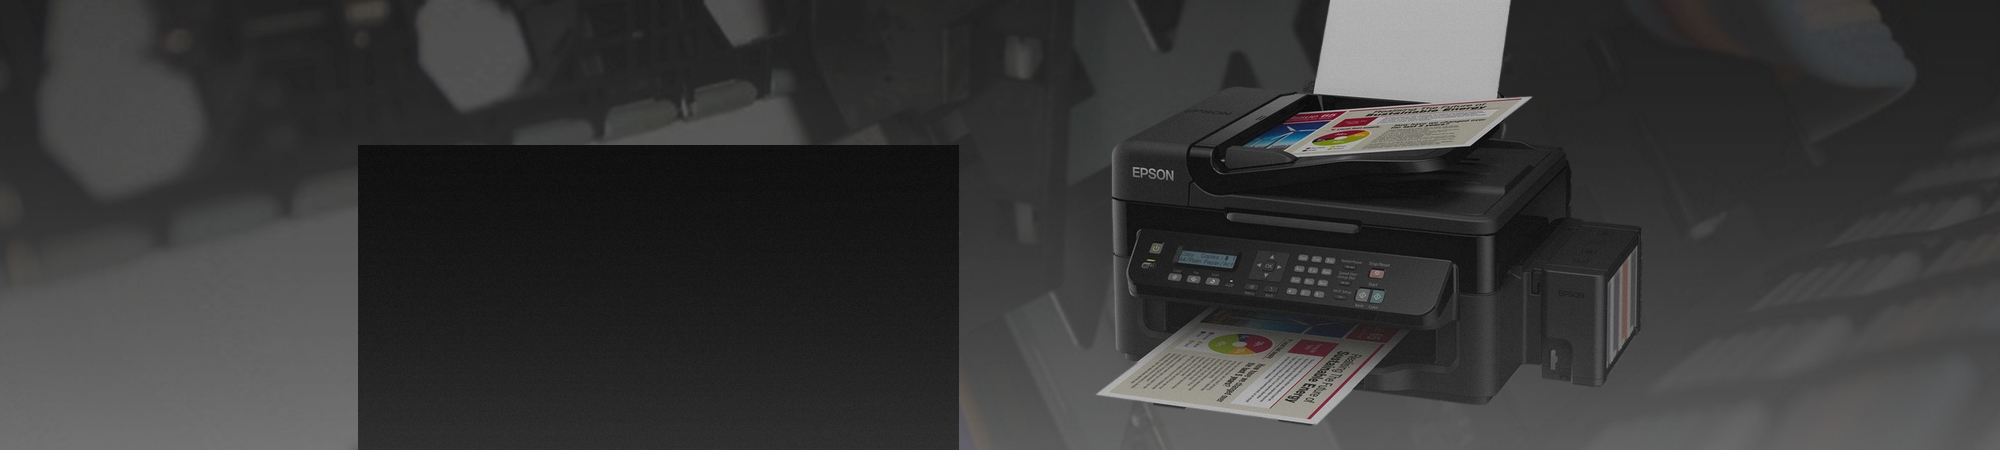
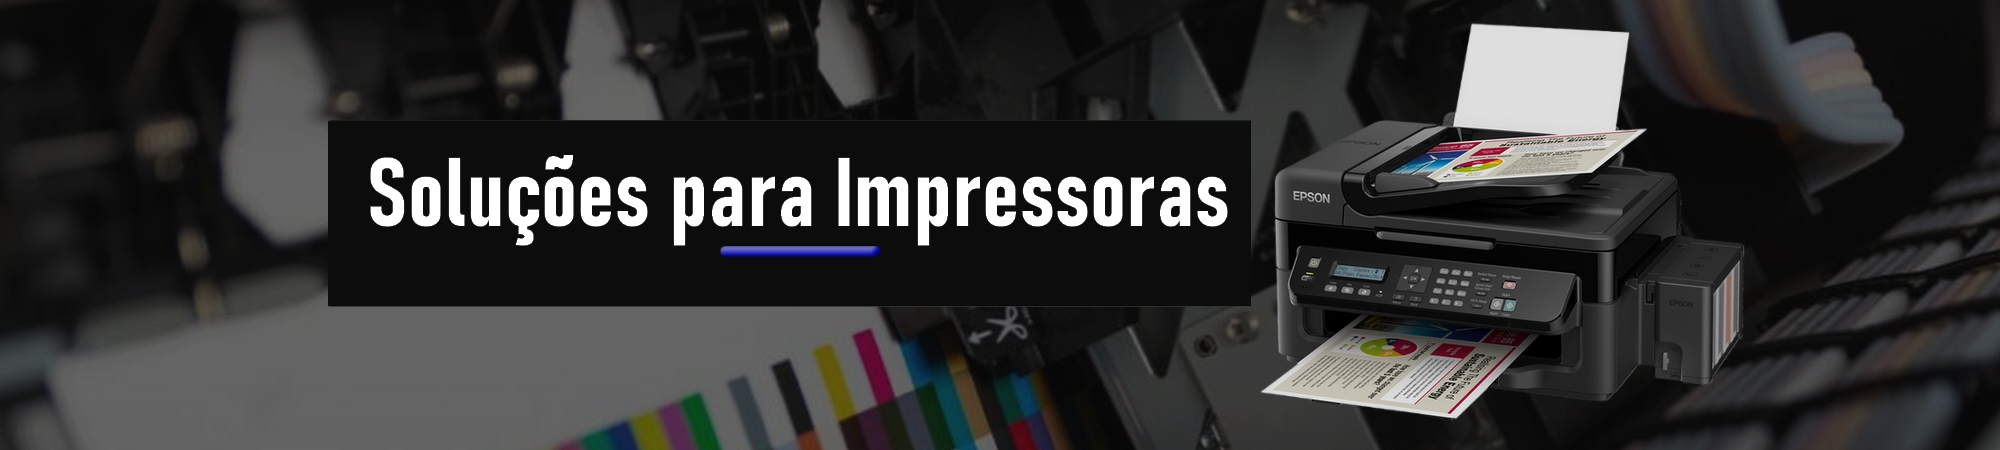
New update

diff --git a/impressoras.html b/impressoras.html
@@ -21,61 +21,189 @@
 
     <!-- Custom CSS-->
     <link rel="stylesheet" href="css/global.css"/>
-    <link rel="stylesheet" href="css/mouse-animate-icon.css"/>
     <link rel="stylesheet" href="css/pulse-button.css"/>
 
     <title>Rhaiters Computer</title>
 </head>
 
-<body>
-    <nav id="navbarTop" class="navbar navbar-lg navbar-dark fixed-top navbar-expand-lg"
-        style="background-color: rgba(1, 1, 1, 0.1)">
-        <div class="container px-1">
-            <a class="navbar-brand mr-0" href="#" style="margin-right: 0px;">
-                <img src="assets/images/icon_logo.png" width="32" height="32" alt="">
-                <img src="assets/images/company_name.png" width="150" height="32" alt="">
-            </a>
-            <button id="navbarToggle" class="navbar-toggler text-white" type="button" data-bs-toggle="collapse"
-                data-bs-target="#menuNavbar" aria-controls="menuNavbar" aria-expanded="false"
-                aria-label="Toggle navigation">
-                <span class="navbar-toggler-icon">   
-                    <i class="fas fa-bars" style="color:#fff; font-size:28px;"></i>
-                </span>
-            </button>
-            <div id="menuNavbar" class="collapse navbar-collapse justify-content-end">
-                <span></span>
-                <ul class="navbar-nav mb-2 mb-lg-0 navbar-nav-scroll text-end">
-                    <hr class="my-0 text-white">
-                    <li class="nav-item">
-                        <a class="nav-link active" aria-current="page" href="#">Home</a>
-                    </li>
-                    <hr class="my-0 text-white">
-                    <li class="nav-item">
-                        <a class="nav-link" href="#sessaoServicos">Serviços</a>
-                    </li>
-                    <hr class="my-0 text-white">
-                    <li class="nav-item">
-                        <a class="nav-link" href="#sessaoOpinioes">Opiniões</a>
-                    </li>
-                    <hr class="my-0 text-white">
-                    <li class="nav-item">
-                        <a class="nav-link" href="#sessaoContato">Contato</a>
-                    </li>
-                    <hr class="my-0 text-white">
-                    <li class="nav-item">
-                        <a class="nav-link" href="#rodape">Sobre a Empresa</a>
-                    </li>
-                    <hr class="my-0 text-white">
-                </ul>
+<body class="pt-5">
+    <nav class="navbar navbar-lg navbar-dark fixed-top navbar-expand-lg"
+        style="background-color: black">
+        <div class="container px-5">
+            <div class="col-md-4 d-flex justify-content-start"> 
             </div>
+            <div class="col-md-4 d-flex justify-content-center">
+                <a class="navbar-brand mr-0 " href="/" style="margin-right: 0px;">
+                    <img src="assets/images/icon_logo.png" width="32" height="32" alt="">
+                    <img src="assets/images/company_name.png" width="150" height="32" alt="">
+                </a>
+            </div>
+            <div class="col-md-4"></div>
         </div>
     </nav>
 
     <header class="bg-dark">
         <div class="d-flex flex-column align-items-center justify-content-center">
-            <img class="img-fluid d-none d-lg-block" src="assets/images/impressoras/header-impressoras.jpg" width="100%">
+            <img class="img-fluid d-none d-lg-block" src="assets/images/impressoras/header-impressoras-v2.jpg" width="100%">
+            <img class="img-fluid d-block d-sm-none d-md-none d-lg-none" src="assets/images/impressoras/header-impressoras-mobile-v3.jpg" width="100%">
         </div>
     </header>
+
+    <section id="sessaoImpMarcas" class="sessao-imp-marcas">
+        <div class="container">
+            <div class="row justify-content-center">
+                <div class="col-md-10">
+                    <div class="container">
+                        <div class="row">
+                            <div class="col-6 col-sm-6 col-md d-flex justify-content-center">
+                                <img src="assets/images/impressoras/hp.png" width="160" class="">
+                            </div>
+                            <div class="col-6 col-sm-6 col-md d-flex justify-content-center">
+                                <img src="assets/images/impressoras/brother.png" width="160" class="">
+                            </div>
+                            <div class="col-6 col-sm-6 col-md d-flex justify-content-center">
+                                <img src="assets/images/impressoras/epson.png" width="160" class="">
+                            </div>                            
+                            <div class="col-6 col-sm-6 col-md d-flex justify-content-center">
+                                <img src="assets/images/impressoras/ricoh.png" width="160" class="">
+                            </div>
+                        </div>
+                    </div>
+                </div>
+            </div>
+        </div>
+    </section>
+
+    <section id="sessaoImpServicos" class="sessao-imp-servicos">
+        <div class="container">
+            <div class="row justify-content-center">
+                <div class="col-md-12">
+                    <div class="container">
+
+                        <div class="row mb-2">
+                            <div class="col-md-5 py-4">
+                                <img src="assets/images/impressoras/servicos/instalacao.jpg" class="img-fluid img-thumbnail">
+                            </div>
+                            <div class="col-md-7 d-flex align-items-center">
+                                <div>
+                                    <h3 class="">Instalação e configuração</h3>
+                                    <p class="alternative-p">
+                                        Realizamos a configuração completa da sua impressora, incluindo o software pré-instalado 
+                                        e os drivers necessários, com a sua participação. Além disso, oferecemos treinamento 
+                                        intensivo sobre o manuseio da impressora e do software, processando juntos uma série 
+                                        de trabalhos de impressão para garantir que você saiba como utilizá-la de forma segura 
+                                        e eficiente. Conte conosco para configurar e treinar o uso da sua impressora.
+                                    </p>
+                                </div>
+                            </div>
+                        </div>
+                        
+                        <div class="row mb-2">
+                            <div class="col-md-5 py-4">
+                                <img src="assets/images/impressoras/servicos/manutencao.jpg" class="img-fluid img-thumbnail">
+                            </div>
+                            <div class="col-md-7 d-flex align-items-center">
+                                <div>
+                                    <h3 class="">Manutenção</h3>
+                                    <p class="alternative-p">
+                                        Para manter sua impressora em bom funcionamento, realizamos uma manutenção completa que inclui 
+                                        a verificação do firmware, drivers e software, além de testes de funcionamento e inspeção 
+                                        visual. Dependendo do tipo de impressora, realizamos limpeza e ajustes em todas as peças 
+                                        móveis, incluindo o sistema de transporte do material e a cabeça de impressão, para garantir 
+                                        a melhor performance possível. Conte conosco para manter sua impressora em ótimo estado.
+                                    </p>
+                                </div>
+                            </div>
+                        </div>
+
+                        <div class="row mb-2">
+                            <div class="col-md-5 py-4">
+                                <img src="assets/images/impressoras/servicos/suporte-remoto.jpg" class="img-fluid img-thumbnail">
+                            </div>
+                            <div class="col-md-7 d-flex align-items-center">
+                                <div>
+                                    <h3 class="">Suporte técnico</h3>
+                                    <p class="alternative-p">
+                                        Oferecemos suporte técnico especializado em impressoras para resolver problemas como impressão, 
+                                        conexão com a rede e configuração de drivers. Nossa equipe está preparada para atender às suas 
+                                        necessidades com suporte remoto. Conte conosco para garantir a eficiência 
+                                        do trabalho em seu escritório ou empresa, sem se preocupar com problemas técnicos em sua impressora.
+                                    </p>
+                                </div>
+                            </div>
+                        </div>
+
+                        <div class="row mb-2">
+                            <div class="col-md-5 py-4">
+                                <img src="assets/images/impressoras/servicos/suprimentos.jpg" class="img-fluid img-thumbnail">
+                            </div>
+                            <div class="col-md-7 d-flex align-items-center">
+                                <div>
+                                    <h3 class="">Reposição de Suprimentos</h3>
+                                    <p class="alternative-p">
+                                        Nossa loja especializada oferece o serviço técnico de reposição de suprimentos para impressoras. 
+                                        Profissionais capacitados realizando a troca de cartuchos de tinta ou toner garantem o bom 
+                                        funcionamento do equipamento. Com nosso serviço, você pode prolongar a vida útil da sua impressora 
+                                        e garantir a qualidade das impressões.
+                                    </p>
+                                </div>
+                            </div>
+                        </div>
+                    </div>
+                </div>
+            </div>
+        </div>
+    </section>
+
+    <section id="sessaoImpVantagens" class="sessao-vantagens mb-5">
+        <div class="container">
+            <div class="row justify-content-center">
+                <div class="col-md-10">
+                    <div class="container">
+                        <p class="fs-2 mb-4 mt-3">Veja as <strong>vantagens</strong></p>
+                        <div class="row">
+                            <div class="col-1 text-success d-flex align-items-center justify-content-center">
+                                <i class="far fa-check-circle fa-lg"></i>
+                            </div>
+                            <div class="col-11 mb-2">
+                                <p class="fs-4 fw-light mb-0">Instalação profissional: garantimos operação sem falhas com instalação e treinamento profissionais.</p>
+                            </div>
+                            <div class="col-1 text-success d-flex align-items-center justify-content-center">
+                                <i class="far fa-check-circle fa-lg"></i>
+                            </div>
+                            <div class="col-11 mb-2">
+                                <p class="fs-4 fw-light mb-0">Peças originais de alta qualidade: usamos apenas peças originais de alta qualidade em nosso serviço de reparação.</p>
+                            </div>
+                            <div class="col-1 text-success d-flex align-items-center justify-content-center">
+                                <i class="far fa-check-circle fa-lg"></i>
+                            </div>
+                            <div class="col-11 mb-2">
+                                <p class="fs-4 fw-light mb-0">Suporte confiável: oferecemos suporte técnico confiável em todas as questões.</p>
+                            </div>
+                            <div class="col-1 text-success d-flex align-items-center justify-content-center">
+                                <i class="far fa-check-circle fa-lg"></i>
+                            </div>
+                            <div class="col-11 mb-2">
+                                <p class="fs-4 fw-light mb-0">Manutenção regular: realizamos manutenções regulares para manter suas impressoras em ótimas condições.</p>
+                            </div>                         
+                        </div>
+                    </div>
+                </div>
+            </div>
+        </div>
+    </section>
+
+    <section class="banner-impressão h-75 py-5 d-flex align-items-center justify-content-center">
+        <div class="container">
+          <div class="row justify-content-center align-items-center">
+            <div class="col-md-10 col-lg-8 text-center">
+              <h1 class="display-4 mb-4 text-white"><strong>Tenha sua impressora sempre em perfeito funcionamento</strong></h1>
+              <p class="lead mb-5 text-white">Não perca mais tempo com impressoras que não funcionam. <strong>Contrate agora mesmo.</strong></p>
+              <a href="https://wa.me/555193599834?text=Tenho%20interesse%20em%20contratar%20o%20serviço%20de%20impressoras" class="btn btn-success btn-lg">Contratar serviço</a>
+            </div>
+          </div>
+        </div>
+    </section>
 
     <footer id="rodape" class="rodape bg-dark pt-5" display="none">
         <div class="container text-light">
@@ -109,110 +237,13 @@
             
         </div>
         <div class="container-fluid text-center" style="background-color: #111;">
-            <p style="color: #aaa;">Created by <a href="https://github.com/rodrigoadsilva" target="_blank">Rodrigo da Silva</a> | © 2021 All rights reserved</p>
+            <p style="color: #aaa;">Created by <a href="https://github.com/rodrigoadsilva" target="_blank">Rodrigo da Silva</a> | © 2023 All rights reserved</p>
         </div>
     </footer>
 
     <a href="https://api.whatsapp.com/send?phone=555193599834" class="float" target="_blank">
         <i class="fab fa-whatsapp my-float"></i>
     </a>
-    
-    <div class="modal fade" id="orcamentoModal" tabindex="-1" role="dialog" aria-labelledby="orcamentoModalLabel">
-        <div class="modal-dialog modal-dialog-centered modal-lg" role="document">
-            <div class="modal-content">
-                <div class="modal-header">
-                    <h5 class="modal-title" id="orcamentoModalLabel">Formulário de Orçamento</h5>
-                    <button type="button" class="close btn btn-danger" onclick="$('#orcamentoModal').modal('toggle')">X</button>
-                </div>
-                <div class="modal-body">
-                    <form method="post" id="orcamentoForm">
-                        <div class="row">
-                            <div class="col-md-6">
-                                <div class="form-group mb-2">
-                                    <label for="inputNomeOrcamento"><strong>Nome Completo</strong></label><span class="text-danger"> *</span>
-                                    <input type="text" class="form-control" id="inputNomeOrcamento" name="inputNomeOrcamento"
-                                        placeholder="Digite nome completo ou empresa" required>
-                                </div>
-                                <div class="form-group mb-2">
-                                    <label for="inputTelefone"><strong>Telefone para contato</strong></label><span class="text-danger"> *</span>
-                                    <input type="number" class="form-control" id="inputNumeroOrcamento" name="inputNumeroOrcamento"
-                                        placeholder="Digite aqui um número para contato" required>
-                                </div>
-                                <div class="form-group mb-2">
-                                    <label for="inputEmailOrcamento"><strong>Email para contato</strong></label>
-                                    <input type="email" class="form-control" id="inputEmailOrcamento" name="inputEmailOrcamento"
-                                        placeholder="Caso tenha email para contato, digite aqui">
-                                </div>
-                            </div>
-                            <div class="col-md-6">
-                                <div class="form-group mb-2">
-                                    <label for="inputJaECliente"><strong>Já é cliente</strong></label><span class="text-danger"> *</span><br>
-                                    <div class="form-check form-check-inline">
-                                        <input class="form-check-input" type="radio" name="radioJaECliente" value="sim" autofocus="" required>
-                                        <label class="form-check-label" for="radioJaECliente1">Sim</label>
-                                    </div>
-                                    <div class="form-check form-check-inline">
-                                        <input class="form-check-input" type="radio" name="radioJaECliente" value="nao">
-                                        <label class="form-check-label" for="radioJaECliente2">Não</label>
-                                    </div>
-                                </div>
-                                <div class="form-group">
-                                    <label for="inputTipoServico"><strong>Selecione o tipo de serviço desejado</strong></label><span class="text-danger"> *</span>
-                                    <div class="row">
-                                        <div class="col-md-12">
-                                            <div class="form-check form-check-inline">
-                                                <input class="form-check-input" type="radio" name="radioTipoServico" value="Manutenção" autofocus="" required="">
-                                                <label class="form-check-label" for="radioTipoServico1">Manutenção Desktop/Notebook</label>
-                                            </div>
-                                        </div>
-                                        <div class="col-md-6">
-                                            <div class="form-check form-check-inline">
-                                                <input class="form-check-input" type="radio" name="radioTipoServico" value="Redes">
-                                                <label class="form-check-label" for="radioTipoServico6">Redes</label>
-                                            </div>
-                                            <div class="form-check form-check-inline">
-                                                <input class="form-check-input" type="radio" name="radioTipoServico" value="Tonner-Tinta">
-                                                <label class="form-check-label" for="radioTipoServico2">Tonner/Cartucho</label>
-                                            </div>
-                                            <div class="form-check form-check-inline">
-                                                <input class="form-check-input" type="radio" name="radioTipoServico" value="CFTV">
-                                                <label class="form-check-label" for="radioTipoServico3">CFTV</label>
-                                            </div>
-                                        </div>
-                                        <div class="col-md-6">
-                                            <div class="form-check form-check-inline">
-                                                <input class="form-check-input" type="radio" name="radioTipoServico" value="Consultoria">
-                                                <label class="form-check-label" for="radioTipoServico4">Consultoria</label>
-                                            </div>
-                                            <div class="form-check form-check-inline">
-                                                <input class="form-check-input" type="radio" name="radioTipoServico" value="Impressoras">
-                                                <label class="form-check-label" for="radioTipoServico5">Impressoras</label>
-                                            </div>
-                                            
-                                            <div class="form-check form-check-inline">
-                                                <input class="form-check-input" type="radio" name="radioTipoServico" value="Outros">
-                                                <label class="form-check-label" for="radioTipoServico7">Outro</label>
-                                            </div>
-                                        </div>
-                                    </div>                                    
-                                    
-                                </div>
-                            </div>
-                        </div>
-                        
-                        <div class="form-group">
-                            <label for="inputDescricao"><strong>Descreva aqui sua solicitação</strong></label><span class="text-danger"> *</span>
-                            <textarea class="form-control" id="inputDescricaoOrcamento" name="inputDescricaoOrcamento" rows="3" 
-                                placeholder="Descreva aqui mais detalhes sobre sua solicitação..." required></textarea>
-                            <span class="text-danger">* Campos obrigatórios</span>
-                        </div>
-                        <button type="submit" class="btn btn-primary mt-2" id="btnEnviarOrcamento"><i class="fas fa-paper-plane"></i>Enviar</button>
-                        <img class="img-fluid" id="gifEnviaOrcamento" src="assets/images/loading.gif" width="45" style="display: none;">
-                    </form>
-                </div>
-            </div>
-        </div>
-    </div>
 
     <!-- JS Frameworks -->
     <script src="source/js/jquery-3.6.0.min.js"></script>
@@ -222,9 +253,7 @@
     <script src="source/js/colorrotator.min.js"></script>
 
     <script src="js/Carousel.js"></script>
-    <script src="js/Reviews.js"></script>
     <script src="js/Contato.js"></script>
-    <script src="js/Orcamento.js"></script>
     <script src="js/Main.js"></script>
 </body>
 

diff --git a/js/Main.js b/js/Main.js
@@ -37,6 +37,7 @@ $(document).ready(function(){
      $(window).scroll(function() {
         $('.navbar-collapse').collapse('hide');
     });
+
     // Check if navbar is toggle to change color
     let navbarBlack = false;
     $('#navbarToggle').on('click',function(){
@@ -53,6 +54,7 @@ $(document).ready(function(){
             navbarBlack = false;
         }
     });
+    
     // Check scroll to change navbar color
     $(window).scroll(function (event) {
         let scroll = $(window).scrollTop();

diff --git a/css/global.css b/css/global.css
@@ -68,6 +68,19 @@ html, body {
     background-size: 100% 100%;
 }
 
+.banner-impressão {
+    background-image: url("../assets/images/impressoras/banner-contrate.jpg");
+    background-size: 100%;
+    background-position: center center;
+}
+
+@media (max-width: 767px) {
+    .banner-impressão {
+        background-image: url("../assets/images/impressoras/banner-contrate-mobile.jpg");
+    }
+}
+
+
 .card {
     border: none;
     border-radius: 10px;
